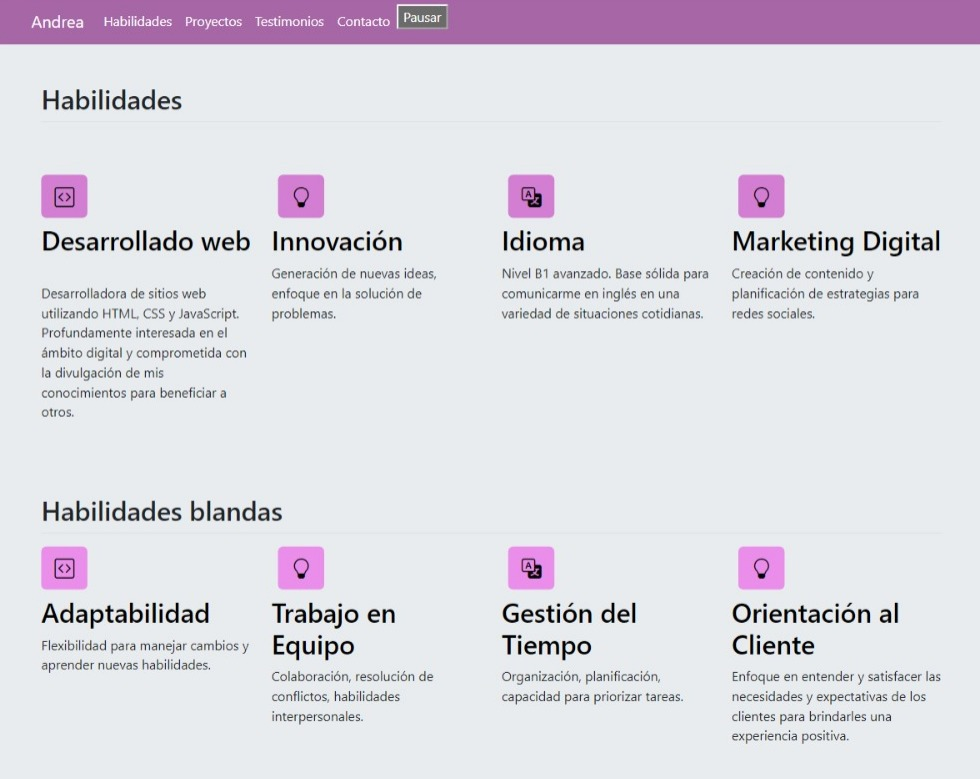
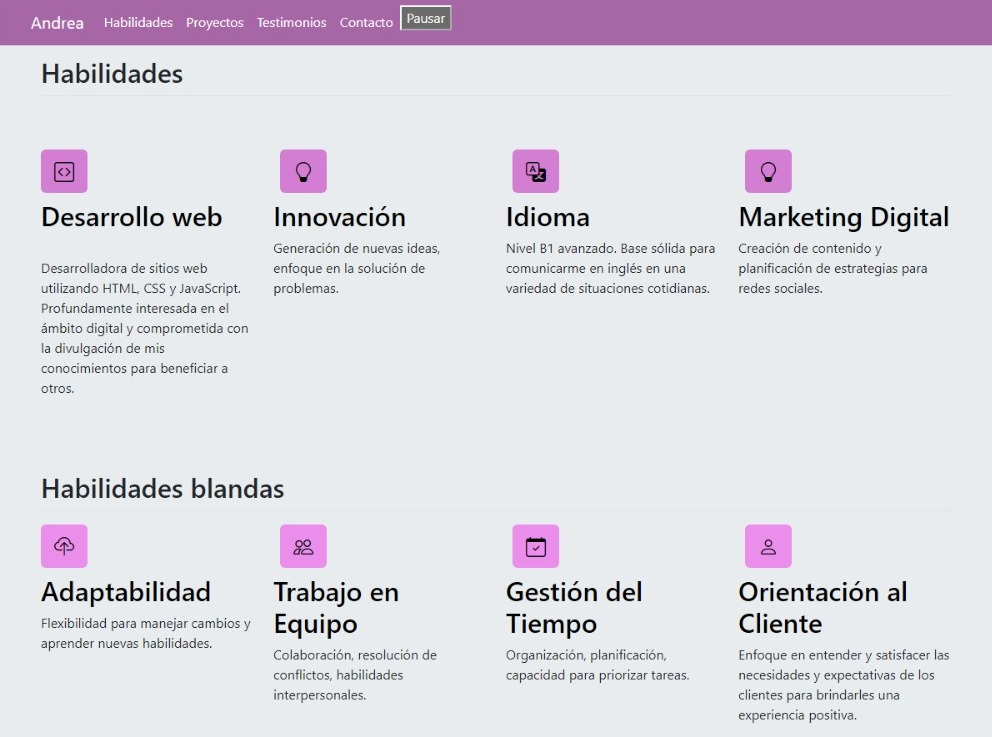
modificaciones habilidades/ background

diff --git a/index.html b/index.html
@@ -114,7 +114,7 @@
                         <i class="bi bi-code-square"></i>
                     </div>
                     <div>
-                        <h3 class="fs-2 text-body-emphasis ">Desarrollado web</h3>
+                        <h3 class="fs-2 text-body-emphasis ">Desarrollo web</h3>
                         <p class="py-4">Desarrolladora de sitios web utilizando HTML, CSS y JavaScript. Profundamente
                             interesada en el ámbito digital y comprometida con la divulgación de mis conocimientos para
                             beneficiar a otros.</p>
@@ -159,7 +159,7 @@
                 <div class="feature col  align-items-start">
                     <div id="icono2"
                         class="icon-square text-body-emphasis  d-inline-flex align-items-center justify-content-center fs-4 px-3 py-2 rounded my-2">
-                        <i class="bi bi-code-square"></i>
+                        <i class="bi bi-cloud-upload"></i>
                     </div>
                     <div>
                         <h3 class="fs-2 text-body-emphasis">Adaptabilidad</h3>
@@ -170,7 +170,7 @@
                 <div class="feature col  align-items-start">
                     <div id="icono2"
                         class="icon-square text-body-emphasis  d-inline-flex align-items-center justify-content-center fs-4 px-3 py-2 rounded m-2">
-                        <i class="bi bi-lightbulb"></i>
+                        <i class="bi bi-people"></i>
                     </div>
                     <div>
                         <h3 class="fs-2 text-body-emphasis">Trabajo en Equipo</h3>
@@ -181,7 +181,7 @@
                 <div class="feature col  align-items-start">
                     <div id="icono2"
                         class="icon-square text-body-emphasis  d-inline-flex align-items-center justify-content-center fs-4 px-3 py-2 rounded m-2">
-                        <i class="bi bi-translate"></i>
+                        <i class="bi bi-calendar-check"></i>
                     </div>
                     <div>
                         <h3 class="fs-2 text-body-emphasis">Gestión del Tiempo</h3>
@@ -191,7 +191,7 @@
                 <div class="feature col  align-items-start">
                     <div id="icono2"
                         class="icon-square text-body-emphasis  d-inline-flex align-items-center justify-content-center fs-4 px-3 py-2 rounded m-2">
-                        <i class="bi bi-lightbulb"></i>
+                        <i class="bi bi-person"></i>
                     </div>
                     <div>
                         <h3 class="fs-2 text-body-emphasis">Orientación al Cliente</h3>

diff --git a/style.css b/style.css
@@ -13,12 +13,26 @@
     display: flex;
     justify-content: start;
     align-items: center;
-    
+    animation: animate 15s infinite;
     background-image: url('assets/fondo2.jpeg');
     background-repeat: no-repeat;
     background-position:center;
     background-size:auto;
 }  
+@keyframes animate {
+    20% {
+      background-image: url('assets/fondo4.jpeg');
+      background-size: cover;
+    }
+    40% {
+      background-image: url('assets/fondo1.png');
+      background-size: cover;
+    }
+    70% {
+      background-image: url('assets/fondo3.jpg');
+      background-size: cover;
+    }
+  }
 
 
 #icono {

diff --git a/README.md b/README.md
@@ -1,6 +1,6 @@
 # Portafolio de habilidades Technolochicas Pro
 
-El presente proyecto es un portafolio desarrollado para poner en práctica las habilidades obtenidad dentro del bootcamp de desarrollo frontend de Techno lochicas PRO.
+El presente proyecto es un portafolio desarrollado para poner en práctica las habilidades obtenidad dentro del bootcamp de desarrollo frontend de Technolochicas PRO.
 
 Fue desarrollado con HTML, CSS. y J5 con el uso de el framework de UI, Bootstrap utilizando además bibliotecas externas.
 
